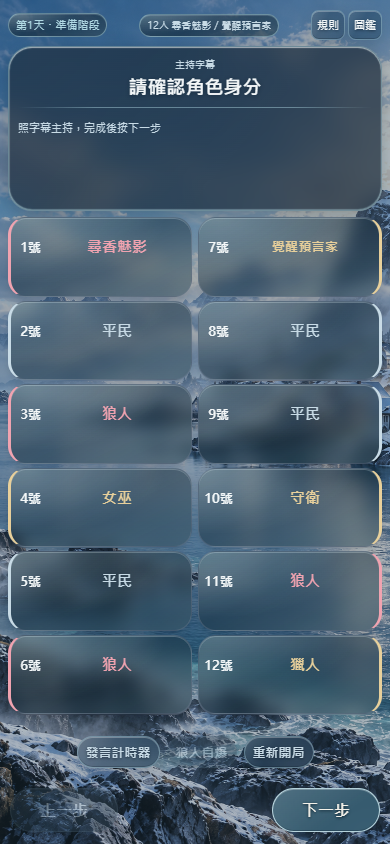
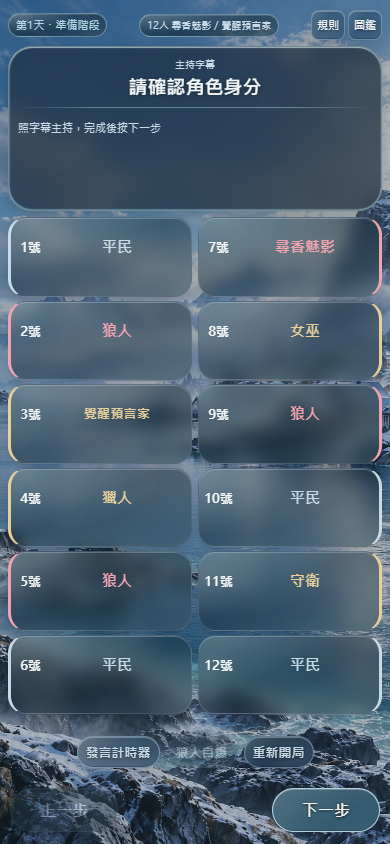
Record deployed host and player recap verification with screenshots

diff --git a/README.md b/README.md
@@ -4,14 +4,15 @@
 
 [開啟 App](https://jia0796.github.io/wolf_Emcee/) · [現行設計](DESIGN.md) · [本輪測試與回退報告](docs/liquid-glass-catalog-report.md)
 
-## 2026-10-24｜線上主持身分同步／玩家復盤／淺色按鈕文字／縮小計時器紅字
+## 2026-10-24｜線上主持身分同步／玩家復盤／淺色按鈕文字／縮小計時器紅字（已完成、已部署）
 
 - 發牌後，經伺服器驗證的主持人自動帶入全部座號的實際角色；保留原主持身分確認頁、字幕、上一步及刷新恢復，不重新洗牌。正式終局前玩家仍只可取得自己的角色。
 - 正式終局後，玩家結束房間並顯示與主持人相同的復盤，底部只留「回首頁」。主持人原本的復盤頁、兩個按鈕及確認流程保留。玩家復盤不覆寫其他本機主持存檔。
 - 活動房間仍於終局刪除；另存的授權復盤保留 24 小時，供原入座玩家重新連線，之後由既有排程清理。手動解散、舊客戶端未上傳復盤及歷史已刪房間不補造復盤。
 - 冰藍主按鈕及繼續／取消使用米白文字與較深冰藍玻璃底色，保留按鍵尺寸、行距及警示按鈕語意。縮小計時器剩餘 10 秒（含）與原大視窗同為紅字，不改時間運算或拖曳。
 - 存檔維持 v22；資源快取更新 council-v22-18，新增 online-state.js 核心資源，漸進快取策略不變。施工前完整基準 e0bea8cb60cb2c8593611fe7ec946b66eb91e376 已推送至 backup/pre-online-host-recap-20261024。
-- 本機完成：程式測試 955、後端單元 1、後端整合 41、全站瀏覽器 38 組、新功能連線介面 12 組均通過。正式部署及部署後驗證見 [本輪報告](docs/online-host-recap-report.md)；真機 Safari／PWA／Android 未驗收。
+- 本機完成：程式測試 955、後端單元 1、後端整合 41、全站瀏覽器 38 組、新功能連線介面 14 組均通過。正式站另以新建專用房間及 12 個獨立玩家實測 14 組通過，六個發布檔案 SHA256 一致。真機 Safari／PWA／Android 未驗收。
+- 程式 Commit aa889271302418a2f74116e2ca558145be6772ee，[Pages 發布成功](https://github.com/jia0796/wolf_Emcee/actions/runs/40078066699)；Supabase migration 20261024082212 及 room v3 已部署。完整權限、測試、截圖、限制及安全回退見 [本輪報告](docs/online-host-recap-report.md)。
 
 ## 2026-10-24｜線上角色卡採圖鑑去背圖片（已實作、已部署）
 
